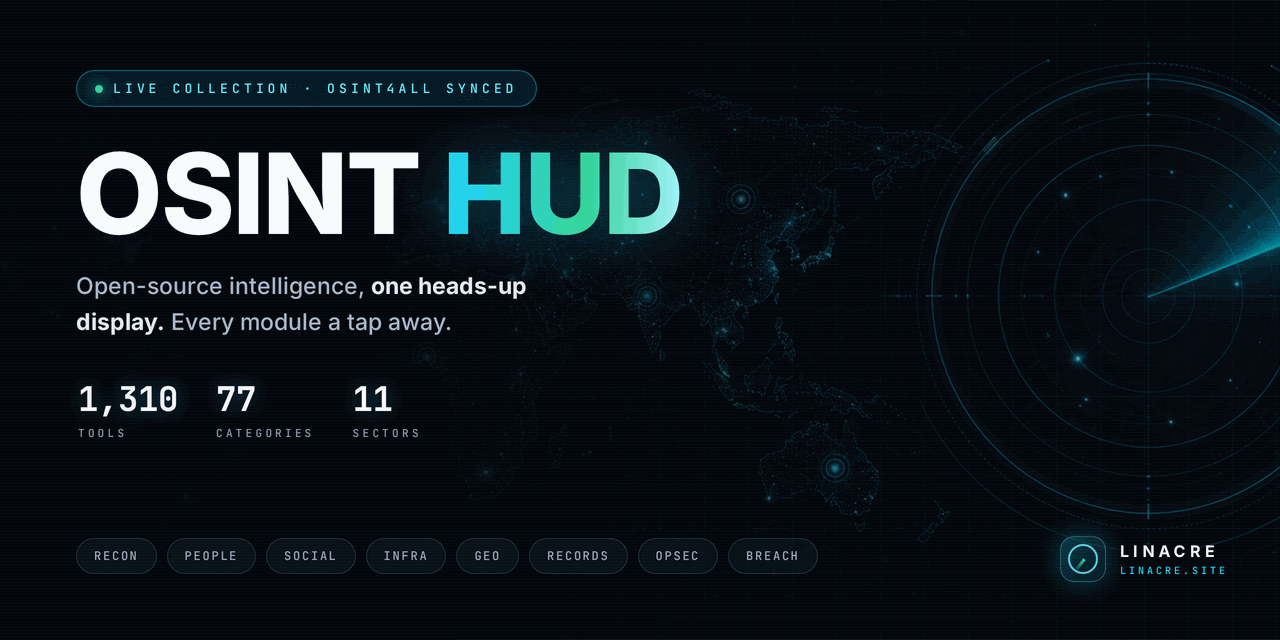
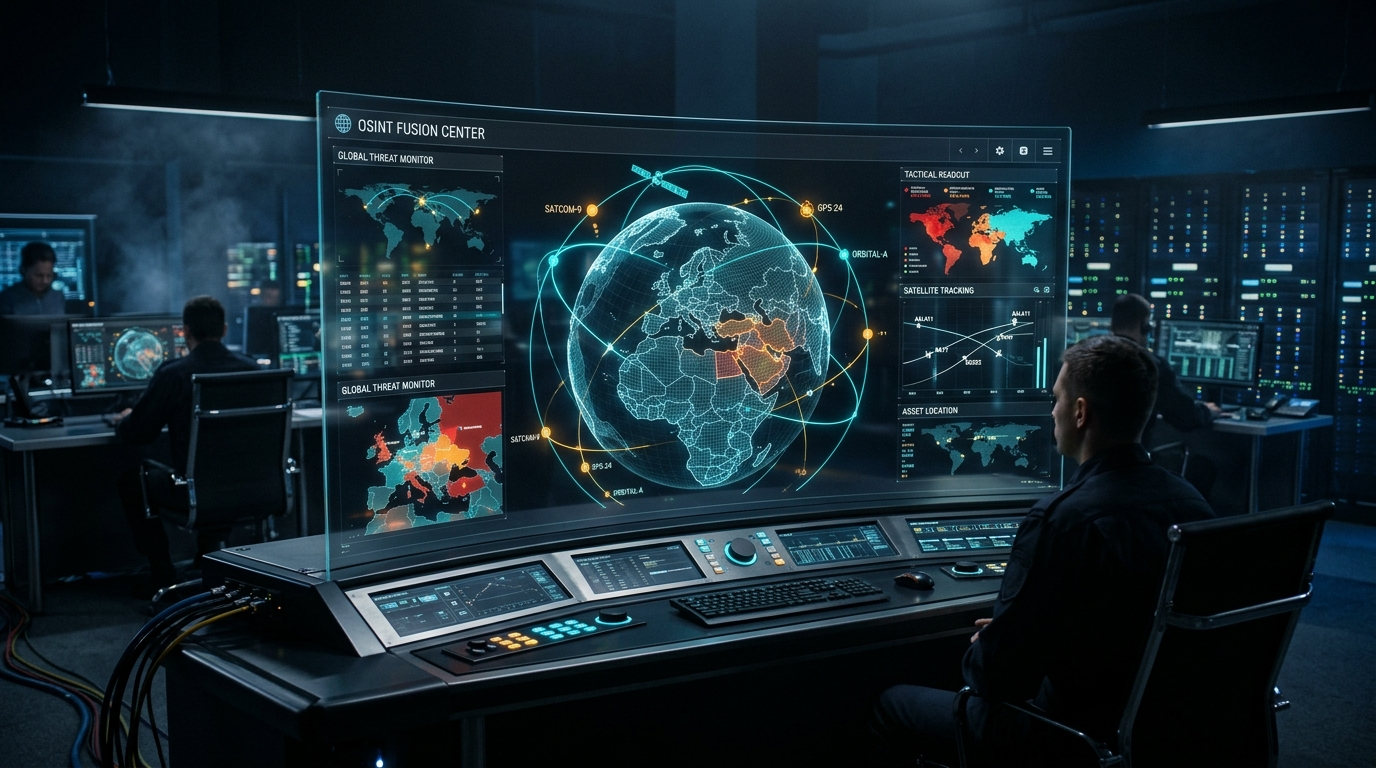
feat: upgrade Linacre OSINT HUD with 8K intelligence fusion center artwork & updated live links

diff --git a/README.md b/README.md
@@ -1,161 +1,51 @@
-<p align="center">
-  <a href="https://dlinacre.github.io/linacre-osint-hud/">
-    <img src="assets/banner.png" alt="Linacre OSINT HUD — 1,310 curated open-source intelligence tools in one dark glass console" width="100%">
-  </a>
-</p>
+<div align="center">
+  <img src="assets/banner.png" alt="Linacre OSINT HUD — 1,310 curated open-source intelligence tools in one dark glass console" width="100%" style="border-radius: 12px; margin-bottom: 16px;" />
 
-<h1 align="center">🛰 Linacre OSINT HUD</h1>
+  # 🛰 Linacre OSINT HUD // Intelligence Fusion Center
 
-<p align="center">
-  <strong>Open-source intelligence, one heads-up display.</strong><br>
-  1,310 curated OSINT tools from the public <a href="https://start.me/p/L1rEYQ/osint4all">OSINT4ALL</a> collection,<br>
-  rebuilt as a fast, animated, dark-glass console — part of <a href="https://www.linacre.site/">linacre.site</a>.
-</p>
+  **Open-source intelligence, unified into one high-performance heads-up display.**<br>
+  1,310 curated OSINT tools from the public OSINT4ALL intelligence collection, rebuilt into an ultra-fast, zero-dependency, dark-glass mission console.<br>
+  Part of the curated [linacre.site](https://www.linacre.site/) open-source ecosystem.
 
-<p align="center">
-  <a href="https://dlinacre.github.io/linacre-osint-hud/"><img src="https://img.shields.io/badge/▶%20LAUNCH%20HUD-22d3ee?style=for-the-badge&labelColor=0b1220" alt="Launch the HUD"></a>
-  <img src="https://img.shields.io/badge/tools-1%2C310-34d399?style=flat-square&labelColor=0b1220" alt="1,310 tools">
-  <img src="https://img.shields.io/badge/sectors-11-34d399?style=flat-square&labelColor=0b1220" alt="11 sectors">
-  <img src="https://img.shields.io/badge/dependencies-0-a78bfa?style=flat-square&labelColor=0b1220" alt="zero dependencies">
-  <img src="https://img.shields.io/badge/license-MIT-64748b?style=flat-square&labelColor=0b1220" alt="MIT license">
-</p>
+  [![Launch HUD](https://img.shields.io/badge/▶_Launch_HUD-lin4cre.github.io%2Flinacre--osint--hud-22d3ee?style=for-the-badge&labelColor=0b1220&logo=google-chrome&logoColor=white)](https://lin4cre.github.io/linacre-osint-hud/)
+  [![Curated Tools](https://img.shields.io/badge/Tools-1%2C310-34d399?style=flat-square&labelColor=0b1220)](https://lin4cre.github.io/linacre-osint-hud/)
+  [![Intelligence Sectors](https://img.shields.io/badge/Sectors-11-34d399?style=flat-square&labelColor=0b1220)](https://lin4cre.github.io/linacre-osint-hud/)
+  [![Zero Dependencies](https://img.shields.io/badge/Dependencies-0-a78bfa?style=flat-square&labelColor=0b1220)](index.html)
+  [![License: MIT](https://img.shields.io/badge/License-MIT-64748b?style=flat-square&labelColor=0b1220)](LICENSE)
+</div>
 
 ---
 
-## ▶ Live demo
+## 🌐 Launch the Interactive HUD Online
 
-**https://dlinacre.github.io/linacre-osint-hud/**
+Launch the complete open-source intelligence radar console directly in your browser:  
+👉 **[lin4cre.github.io/linacre-osint-hud](https://lin4cre.github.io/linacre-osint-hud/)**
 
-No install, no account, no backend — one self-contained `index.html` you can also download and open locally.
-
-<p align="center">
-  <img src="docs/screenshot-hero.png" alt="OSINT HUD — hero console, world clock array and search" width="100%">
-</p>
+- **Instant Zero-Latency Filtering:** Search across 1,310 tools and descriptions with real-time fuzzy matching and instant keyboard navigation (`/`).
+- **11 Mission Sectors:** Recon & Search, People & Identity, Social Networks, Community Intel, Media Forensics, Cyber Infrastructure, Geo & ADS-B Tracking, Blockchain & Financials, Public Records, OPSEC & Cover, and Technical Toolkits.
+- **World Clock Array & Time Sync:** Synchronized military and Zulu timezones (UTC, London, New York, Tokyo, Sydney).
+- **Single-File Zero Dependency:** Operates 100% client-side with zero external analytics tracking.
 
 ---
 
-## ⌖ What's inside
+## ⌖ Intelligence Sectors
 
-The entire worthwhile contents of the [OSINT4ALL](https://start.me/p/L1rEYQ/osint4all) start.me page
-(its **77 link widgets, world-clock config and Reddit intel feed**), health-checked, de-duplicated,
-dead links removed — grouped into **11 sectors**:
-
-| Sector | Covers |
+| Sector | Coverage Scope |
 |---|---|
-| 🔍 **Recon & Search** | Unified search, 60+ engines, Google CSEs, dorking, open directories, datasets, source-code & news search |
-| 🧑 **People & Identity** | People search, username hunters (Sherlock, Maigret, WhatsMyName), email & phone tooling |
-| 💬 **Social Networks** | Twitter/X, Reddit, Instagram, Telegram, Discord, YouTube, TikTok & 10 more platforms |
-| 🗞 **Community & Feeds** | Live OSINT subreddit multifeed + research communities |
-| 🖼 **Media & Files** | Reverse image, face search, forensics, EXIF, downloaders |
-| 🌐 **Infra & Cyber** | Shodan, GreyNoise, crt.sh, DNS, Whois, threat maps, malware sandboxes, IoT cams |
-| 🛰 **Geo & Tracking** | Maps, flights (ADS-B), maritime AIS, VIN/plates, radio/wifi (WiGLE) |
-| 💰 **Money & Business** | Crypto tracing, finance, company registries (OpenCorporates, Companies House) |
-| 🗄 **Records & Intel** | Court/public records, government data, LE databases, voter rolls, breach dumps, darknet |
-| 🕶 **Opsec & Cover** | Privacy guides, secure comms, burner contacts, identity generators, sandboxes |
-| 🧰 **Toolkit & Resources** | CyberChef, hash recovery, productivity utilities, OSINT frameworks & blogs |
+| 🔍 **Recon & Search** | Unified multi-search, 60+ engines, Google CSEs, dorking libraries, open directory indexing, leaked datasets |
+| 🧑 **People & Identity** | Username reconnaissance (Sherlock, Maigret, WhatsMyName), breach checks, phone/email intel |
+| 💬 **Social Networks** | Twitter/X, Reddit, Instagram, Telegram channels, Discord servers, TikTok, YouTube |
+| 🗞 **Community & Feeds** | Live OSINT multifeeds, research forums, and geopolitical analysis streams |
+| 🖼 **Media & Files** | Reverse image matching, facial recognition portals, EXIF metadata extraction, video forensic tools |
+| 🌐 **Infra & Cyber** | Shodan, GreyNoise, crt.sh certificate transparency, DNS historical records, threat maps, malware sandboxes |
+| 🛰 **Geo & Tracking** | Satellite imagery, ADS-B flight telemetry, maritime AIS transponders, Wi-Fi wardriving (WiGLE) |
+| 💰 **Money & Business** | Blockchain transaction tracing, corporate registries (Companies House, OpenCorporates) |
+| 🗄 **Records & Intel** | Public court records, FOI databases, leak archives, darknet search nodes |
+| 🕶 **Opsec & Cover** | Browser fingerprint testing, disposable identities, burner communication protocols, hardened VMs |
+| 🧰 **Toolkit & Utilities** | CyberChef, hash decoders, timestamp convertors, visual intelligence workflows |
 
 ---
 
-## ✨ Feature highlights
+## 📄 License
 
-**Console experience**
-- Terminal **boot sequence** (once per session, click/any key to skip)
-- Animated **particle-network canvas**, radar hero artwork, scanlines, staggered reveals
-- **12 Tier-1 priority modules** — 3D tilt, cursor-tracked glow, hand-written summaries
-- Live **world-clock array (11 investigator time zones)** lifted straight from the source page
-- Greeting clock, count-up stats, scroll progress bar, custom dark scrollbar
-
-**Quality of life**
-- 🔎 **Live search** across 1,310 titles, hosts & categories — `/` to focus, `Enter` opens first hit, `Esc` clears
-- ⭐ **My Stars** — pin your own favourites (persisted in `localStorage`)
-- 🕑 **Recent Ops strip** — last 14 tools you opened, always one click away
-- 🔗 **Right-click any tool** to copy its link, with toast feedback
-- ⚄ **Random Op** button — jump somewhere new in the visible set
-- 🎨 **4 accent themes** (cyan / violet / amber / rose) + **compact density** toggle
-- #⃣ **Shareable searches** — query & sector sync to the URL hash (`#q=vin&g=geo`)
-- ⧉ Per-sector copyable anchor links, collapsible panels, expand/collapse-all
-- ⌨ Keyboard map on `?`, scroll-spy chips, suggestion chips, `<noscript>` fallback
-
-**Modern CSS4 / progressive enhancement**
-`@property` animated conic sweeps · `color-mix()` theming · `:has()` state styling ·
-native **CSS nesting** · container queries · `animation-timeline: view()/scroll()` scroll-driven effects ·
-**View Transitions API** filter crossfades · `content-visibility` render optimisation ·
-`text-wrap: balance` · full `prefers-reduced-motion` support
-
-**Performance & privacy**
-- Zero dependencies, zero build step, zero tracking — fonts & favicons are the only external calls
-- Lazy favicons with monogram fallback; panels skip off-screen rendering via `content-visibility`
-- Stars, recents, theme & density live only in your browser — **nothing is uploaded**
-
-<p align="center">
-  <img src="docs/screenshot-panels.png" alt="OSINT HUD — sector panels with live tool pills" width="100%">
-</p>
-
----
-
-## ⌨ Keyboard ops
-
-| Key | Action |
-|---|---|
-| `/` | Focus search |
-| `Enter` | Open first match |
-| `Esc` | Clear search / close panels |
-| `?` | Shortcuts overlay |
-| right-click | Copy a tool's link |
-| hover `★` | Pin / unpin a tool |
-
----
-
-## 🚀 Run it yourself
-
-```bash
-git clone https://github.com/DLinacre/linacre-osint-hud.git
-cd linacre-osint-hud
-open index.html        # or just double-click it — no server needed
-```
-
-Deploy your own copy anywhere static: GitHub Pages, Cloudflare Pages, Netlify, S3…
-It's one HTML file plus `img/` — that's the whole thing.
-
-## 🔧 Rebuild / re-curate
-
-The dataset was extracted from the public OSINT4ALL page (archived JSON snapshot) and cleaned
-with Python. To re-curate the tiers or regenerate the page:
-
-```bash
-python3 build.py       # renders index.html from osint_grouped.json
-```
-
-- `PRIME` / `STARRED` sets and sector mapping live at the top of `build.py`
-- Raw source dump: `osint4all.json` · cleaned: `osint_clean.json` · grouped: `osint_grouped.json`
-
-## 📁 Repo layout
-
-```
-linacre-osint-hud/
-├── index.html             # the HUD — self-contained console (built)
-├── build.py               # generator / curation pipeline
-├── img/radar-hero.png     # hero artwork
-├── assets/                # README banner (+ its source frame)
-├── docs/                  # README screenshots
-├── osint4all.json         # raw archive of the source page
-├── osint_clean.json       # health-checked links
-└── osint_grouped.json     # final 11-sector dataset
-```
-
----
-
-## ⚖ Disclaimer
-
-This is a **link directory**: all tools are external third-party sites under their own terms and
-privacy policies, curated from the public OSINT4ALL collection for lawful research, journalism,
-security and due-diligence work. Always respect privacy and the law in your jurisdiction.
-
-## 🙏 Credits
-
-- **OSINT4ALL** — the original collection: <https://start.me/p/L1rEYQ/osint4all>
-- **Linacre** — design & build: <https://www.linacre.site/>
-
-<p align="center">
-  <sub>© 2026 Linacre · Built in Liverpool, UK · MIT License</sub>
-</p>
+MIT © [David Linacre](https://github.com/LIN4CRE) · [linacre.site](https://www.linacre.site/)
